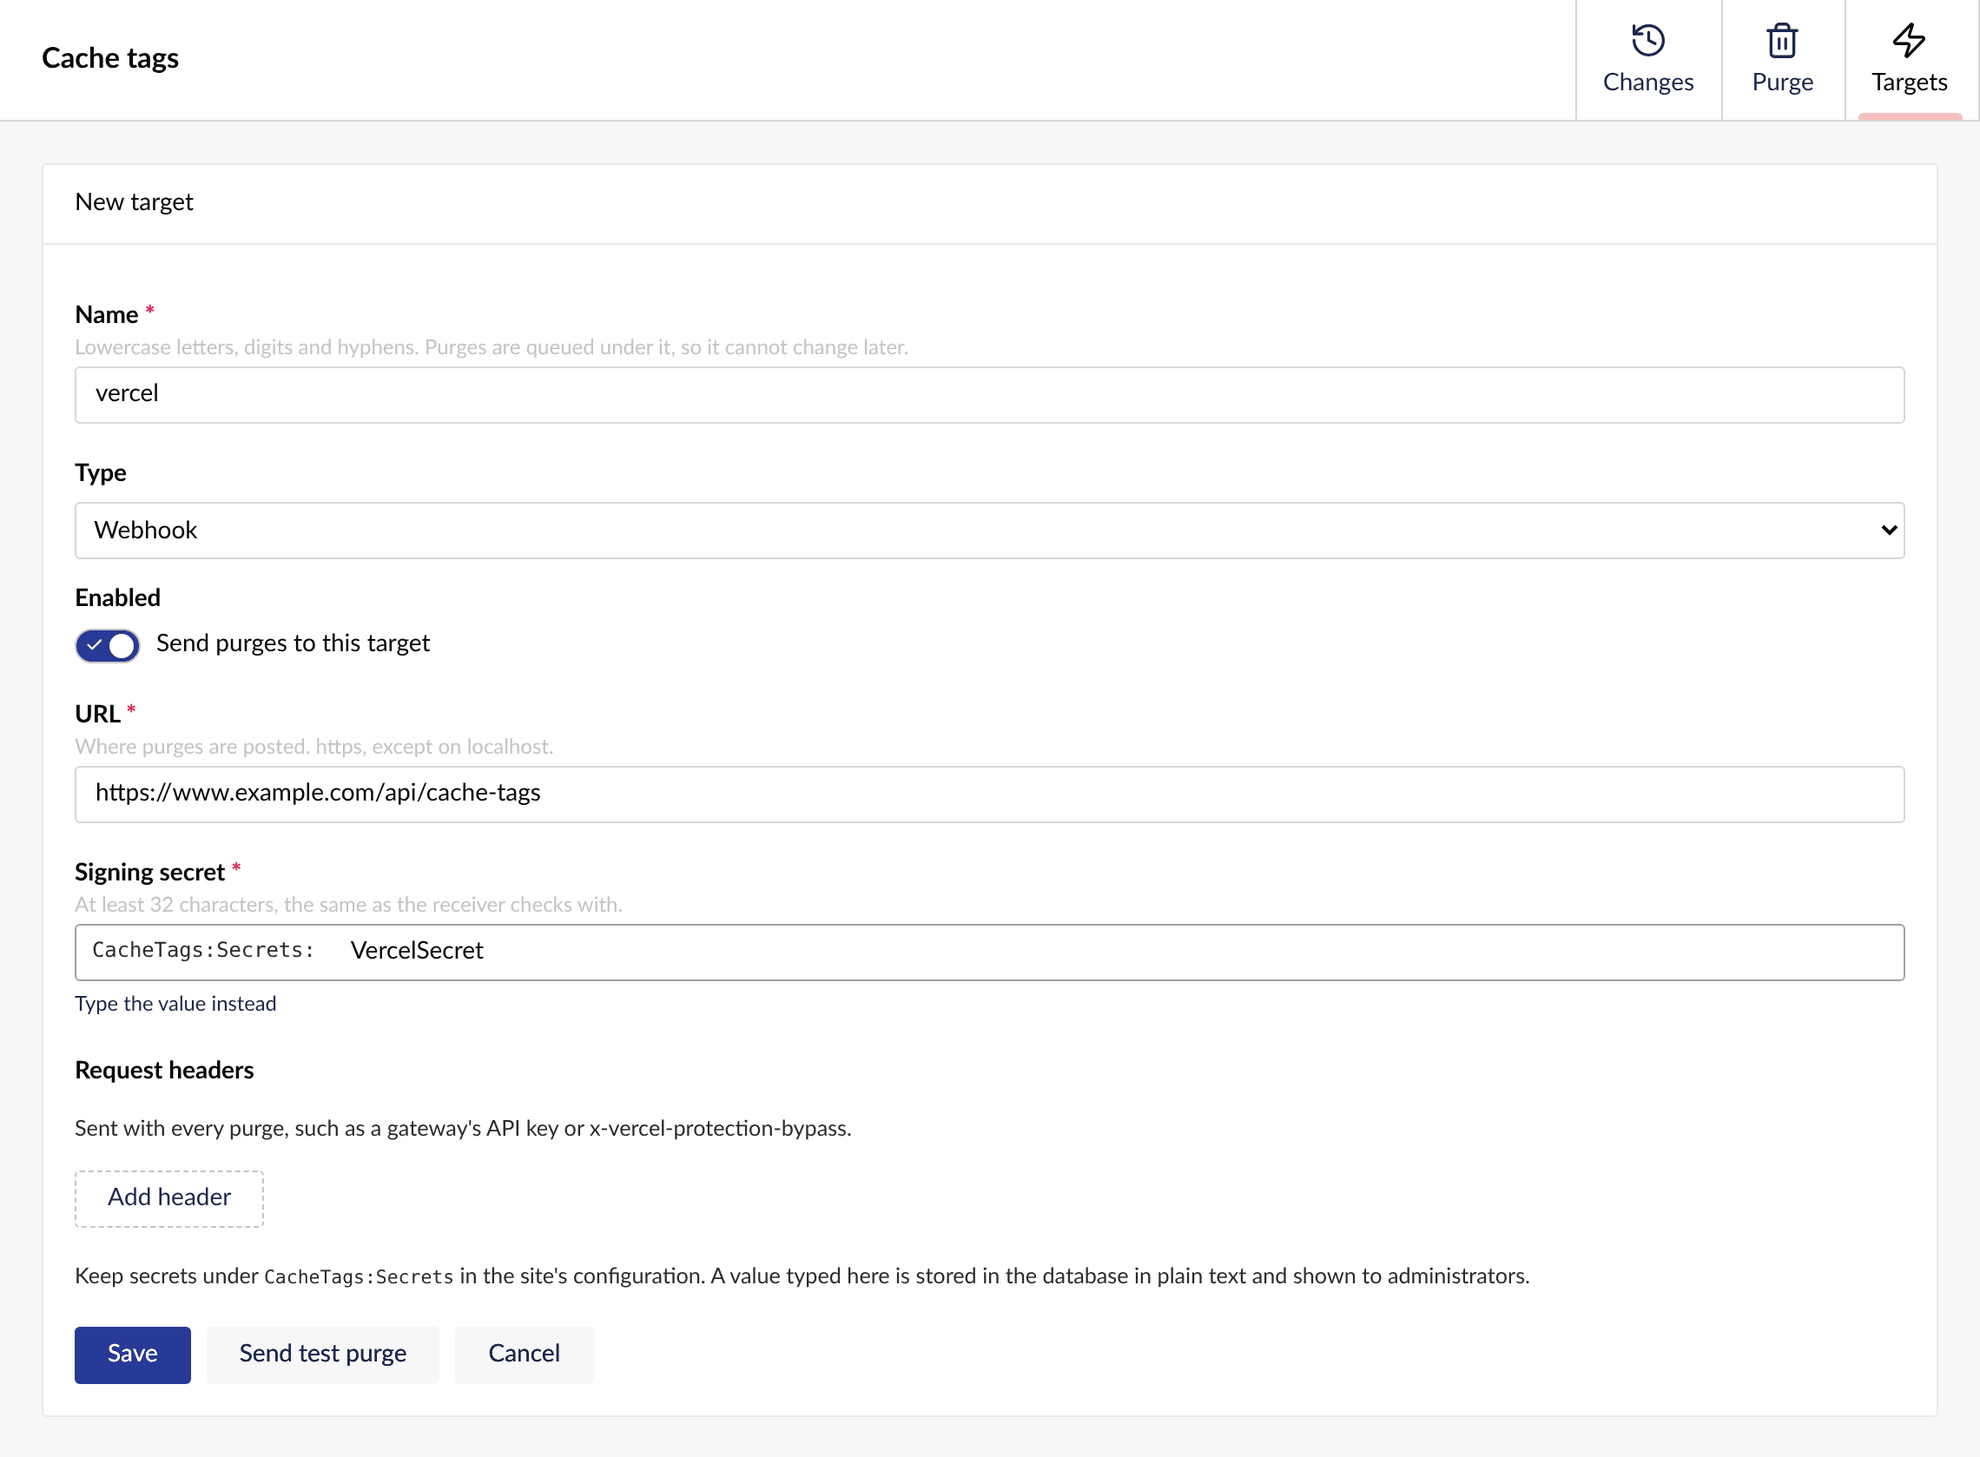
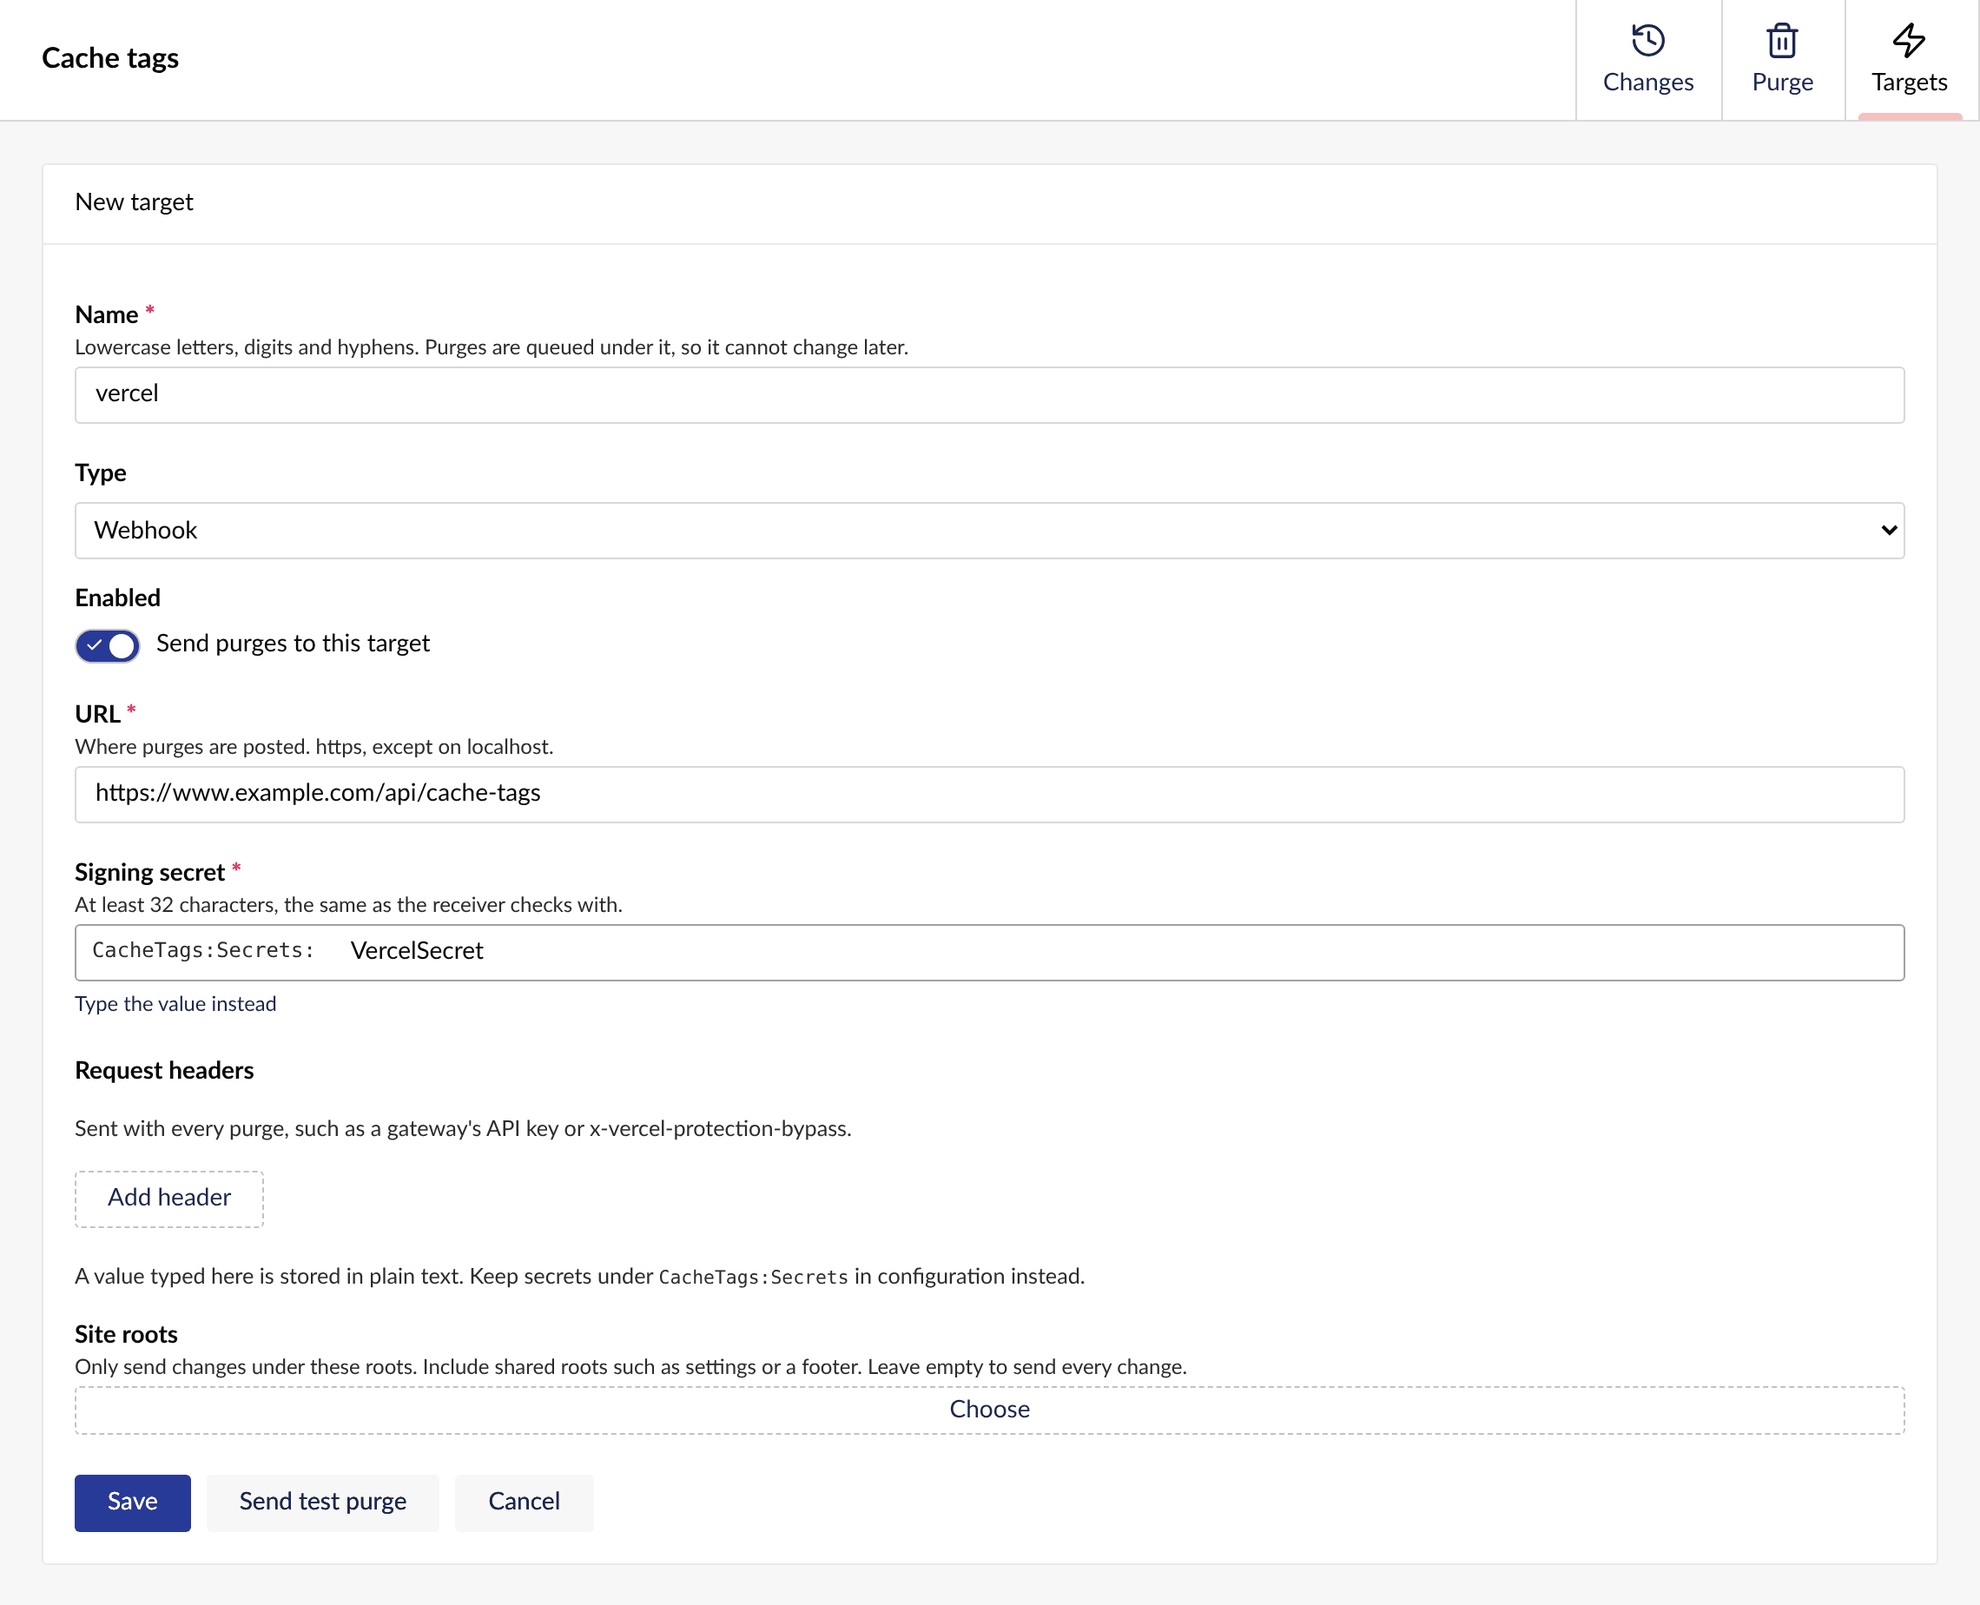
Shorten the backoffice copy (#36)
* Shorten the backoffice copy

The Cache box, Changes, Purge and Targets said more than they needed to.
Cut them to one plain sentence each, drop repeated counts and labels
(1 attempt, sent, Indexed by when it matches Applied by), and retake the
docs screenshots.

* Line up Recent changes: chevron, aligned details, Purges as a row

Each change shows a chevron so it reads as openable, the details start
under what changed instead of 20px left of it, Purges is a row like Keys
and Servers rather than a heading, and the purge count sits beside the
status tag.

---------

diff --git a/src/TheBuilder.CacheTags/Client/src/changes-view.element.ts b/src/TheBuilder.CacheTags/Client/src/changes-view.element.ts
@@ -21,6 +21,9 @@ const stageOf = (change: ChangeEntry) =>
 
 const plural = (count: number, word: string) => `${count} ${word}${count === 1 ? "" : "s"}`;
 
+/** Whether two lists name the same servers, so the second adds nothing worth showing. */
+const sameServers = (a: string[], b: string[]) => a.length === b.length && a.every((server) => b.includes(server));
+
 /** Recent changes, what each planned and where its purges are, and the purges that failed. */
 @customElement("thebuilder-cache-tags-changes-view")
 export class CacheTagsChangesViewElement extends UmbElementMixin(LitElement) {
@@ -104,7 +107,7 @@ export class CacheTagsChangesViewElement extends UmbElementMixin(LitElement) {
     this._busy = true;
     try {
       await (action === "retry" ? api.retry(purge.id) : api.discard(purge.id));
-      this.#notification?.peek("positive", { data: { message: action === "retry" ? "The purge is sent again." : "The purge is set aside." } });
+      this.#notification?.peek("positive", { data: { message: action === "retry" ? "Sent again." : "Set aside." } });
       await this.#load();
     } catch (error) {
       this.#notification?.peek("danger", { data: { message: errorMessage(error, "Could not change the purge.") } });
@@ -119,7 +122,7 @@ export class CacheTagsChangesViewElement extends UmbElementMixin(LitElement) {
         ${this._failed.length > 0
           ? html`
               <uui-box headline="Failed purges">
-                <p>These were given up after their last attempt. Send them again once the target answers, or set them aside.</p>
+                <p>These ran out of attempts. Send them again once the target is back, or set them aside.</p>
                 ${this._failed.map((purge) => this.#renderPurge(purge))}
               </uui-box>
             `
@@ -131,7 +134,7 @@ export class CacheTagsChangesViewElement extends UmbElementMixin(LitElement) {
           ${!this._loading && this._changes.length === 0 && !this._error ? html`<p class="muted">No changes recorded yet.</p>` : nothing}
           ${repeat(this._changes, (change) => change.id, (change) => this.#renderChange(change))}
         </uui-box>
-        <p class="muted">How a change becomes a purge: <a href=${DOCS} target="_blank" rel="noopener">the documentation</a>.</p>
+        <p class="muted"><a href=${DOCS} target="_blank" rel="noopener">How a change becomes a purge</a></p>
       </div>
     `;
   }
@@ -146,34 +149,39 @@ export class CacheTagsChangesViewElement extends UmbElementMixin(LitElement) {
       <details
         class="change"
         ?open=${this.#open.has(change.id)}
-        @toggle=${(event: Event) =>
-          (event.target as HTMLDetailsElement).open ? this.#open.add(change.id) : this.#open.delete(change.id)}>
+        @toggle=${(event: Event) => {
+          (event.target as HTMLDetailsElement).open ? this.#open.add(change.id) : this.#open.delete(change.id);
+          this.requestUpdate();
+        }}>
         <summary>
+          <uui-symbol-expand ?open=${this.#open.has(change.id)}></uui-symbol-expand>
           <span class="when muted">${time(change.createdUtc)}</span>
           <span class="what"><strong>${change.kind}</strong> <span class="muted">${what}</span></span>
           <span class="tags">
             <uui-tag look="secondary" color=${stage.color} title=${stage.hint}>${stage.label}</uui-tag>
             ${change.notAcknowledgedBy.length > 0 ? html`<uui-tag look="secondary" color="danger" title="Some servers had not applied it when it was purged">Ack timeout</uui-tag>` : nothing}
             ${failed ? html`<uui-tag look="secondary" color="danger">Purge failed</uui-tag>` : nothing}
+            <span class="muted purges">${change.purges.length === 0 ? "No purges" : sent === change.purges.length ? plural(sent, "purge") : `${sent} of ${change.purges.length} sent`}</span>
           </span>
-          <span class="muted purges">${change.purges.length === 0 ? "no purges" : `${sent} of ${plural(change.purges.length, "purge")} sent`}</span>
         </summary>
         <div class="details">
           <dl>
-            <dt>Planned</dt>
+            <dt>Keys</dt>
             <dd>${planned.map((key) => html`<span class="param">${key}</span>`)}</dd>
             ${change.change.cultures ? html`<dt>Cultures</dt><dd>${change.change.cultures.join(", ")}</dd>` : nothing}
-            <dt>Applied by</dt>
+            <dt>Servers</dt>
             <dd>
               ${change.waitsForServers
                 ? change.acknowledgedBy.join(", ") || html`<span class="muted">no server yet</span>`
-                : html`<span class="muted">purged without waiting for servers</span>`}
+                : html`<span class="muted">Purged right away</span>`}
             </dd>
             ${change.notAcknowledgedBy.length > 0 ? html`<dt>Purged without</dt><dd class="error">${change.notAcknowledgedBy.join(", ")}</dd>` : nothing}
-            ${change.indexedBy.length > 0 ? html`<dt>Indexed by</dt><dd>${change.indexedBy.join(", ")}</dd>` : nothing}
+            ${change.indexedBy.length > 0 && !sameServers(change.indexedBy, change.acknowledgedBy)
+              ? html`<dt>Indexed by</dt><dd>${change.indexedBy.join(", ")}</dd>`
+              : nothing}
             ${change.change.waitFor ? html`<dt>Waits for</dt><dd><span class="param">${change.change.waitFor}</span></dd>` : nothing}
+            ${change.purges.length > 0 ? html`<dt>Purges</dt><dd class="purge-list">${change.purges.map((purge) => this.#renderPurge(purge))}</dd>` : nothing}
           </dl>
-          ${change.purges.length > 0 ? html`<h4>Purges</h4>${change.purges.map((purge) => this.#renderPurge(purge))}` : nothing}
         </div>
       </details>
     `;
@@ -184,7 +192,7 @@ export class CacheTagsChangesViewElement extends UmbElementMixin(LitElement) {
     return html`
       <div class="purge">
         <uui-tag look="secondary" color=${color}>${purge.state}</uui-tag>
-        <span><strong>${purge.target}</strong> <span class="muted">${plural(purge.keys.length, "key")}, ${plural(purge.attempts, "attempt")}${purge.sentUtc ? `, sent ${time(purge.sentUtc)}` : ""}</span></span>
+        <span><strong>${purge.target}</strong> <span class="muted">${plural(purge.keys.length, "key")}${purge.attempts > 1 ? `, ${purge.attempts} attempts` : ""}${purge.sentUtc ? `, ${time(purge.sentUtc)}` : ""}</span></span>
         ${purge.lastError ? html`<span class="error">${purge.lastError}</span>` : nothing}
         <span class="actions">
           ${purge.state === "Dead" || purge.state === "Discarded"
@@ -203,6 +211,10 @@ export class CacheTagsChangesViewElement extends UmbElementMixin(LitElement) {
     sharedStyles,
     css`
       .change {
+        /* The summary's columns, so the details line up under what changed. */
+        --chevron: 0.75rem;
+        --when: 11rem;
+        --gap: var(--uui-size-space-4);
         border-top: 1px solid var(--uui-color-border);
       }
       .change:first-of-type {
@@ -210,34 +222,47 @@ export class CacheTagsChangesViewElement extends UmbElementMixin(LitElement) {
       }
       summary {
         display: grid;
-        grid-template-columns: 11rem 1fr auto 9rem;
-        gap: var(--uui-size-space-4);
+        grid-template-columns: var(--chevron) var(--when) 1fr auto;
+        gap: var(--gap);
         align-items: center;
         padding: var(--uui-size-space-3) 0;
         cursor: pointer;
+        list-style: none;
+      }
+      summary::-webkit-details-marker {
+        display: none;
+      }
+      uui-symbol-expand {
+        width: var(--chevron);
+        color: var(--uui-color-text-alt);
       }
       .when,
       .purges {
         font-variant-numeric: tabular-nums;
       }
-      .purges {
-        text-align: right;
-      }
       .tags {
         display: flex;
-        gap: var(--uui-size-space-2);
+        gap: var(--uui-size-space-3);
+        align-items: center;
+        justify-content: flex-end;
       }
       .details {
-        padding: 0 0 var(--uui-size-space-4) 11rem;
+        padding: 0 0 var(--uui-size-space-4) calc(var(--chevron) + var(--when) + 2 * var(--gap));
       }
-      h4 {
-        margin: var(--uui-size-space-4) 0 var(--uui-size-space-2);
+      .details dl {
+        align-items: baseline;
+      }
+      .purge-list {
+        display: grid;
+        gap: var(--uui-size-space-2);
       }
       .purge {
         display: flex;
         gap: var(--uui-size-space-3);
         align-items: center;
         flex-wrap: wrap;
+      }
+      uui-box > .purge {
         padding: var(--uui-size-space-2) 0;
       }
       .actions {

diff --git a/src/TheBuilder.CacheTags/Client/src/targets-view.element.ts b/src/TheBuilder.CacheTags/Client/src/targets-view.element.ts
@@ -217,7 +217,7 @@ export class CacheTagsTargetsViewElement extends UmbElementMixin(LitElement) {
         ${this._error ? html`<p class="error">${this._error}</p>` : nothing}
         ${this._loading && this._targets.length === 0 ? html`<uui-loader></uui-loader>` : nothing}
         ${!this._loading && this._targets.length === 0 && !this._error
-          ? html`<p>No targets yet, so changes are recorded but nothing is purged. Add one to start purging.</p>`
+          ? html`<p>No targets yet, so nothing is purged.</p>`
           : nothing}
         ${this._targets.length > 0
           ? html`
@@ -325,8 +325,7 @@ export class CacheTagsTargetsViewElement extends UmbElementMixin(LitElement) {
       <uui-box headline=${target.name}>
         <fieldset ?disabled=${this._busy}>
           <p class="muted">
-            This target is set in <span class="mono">appsettings.json</span>. Its roots are kept in the database, so every server uses
-            them.
+            Set in <span class="mono">appsettings.json</span>. Roots picked here are saved in the database.
           </p>
           ${this.#renderRoots(this._roots, (roots) => {
             this._roots = roots;
@@ -347,9 +346,7 @@ export class CacheTagsTargetsViewElement extends UmbElementMixin(LitElement) {
       <uui-form-layout-item>
         <uui-label slot="label" for="roots">Site roots</uui-label>
         <span slot="description">
-          For an Umbraco instance with several sites: every top-level page whose content this frontend shows, including shared
-          ones such as settings or a footer. Changes under roots not picked here never reach this frontend. Leave empty to send every
-          change.
+          Only send changes under these roots. Include shared roots such as settings or a footer. Leave empty to send every change.
         </span>
         <umb-input-document
           id="roots"
@@ -383,7 +380,7 @@ export class CacheTagsTargetsViewElement extends UmbElementMixin(LitElement) {
       </uui-form-layout-item>
       ${this.#renderNamedValues("Request headers", "Sent with every purge, such as a gateway's API key or x-vercel-protection-bypass.", draft.headers, (headers) => this.#patch({ headers }), "x-vercel-protection-bypass", "Add header")}
       <p class="muted small">
-        Keep secrets under <span class="mono">${SECRETS}</span> in the site's configuration. A value typed here is stored in the database in plain text and shown to administrators.
+        A value typed here is stored in plain text. Keep secrets under <span class="mono">${SECRETS}</span> in configuration instead.
       </p>
     `;
   }
@@ -404,7 +401,7 @@ export class CacheTagsTargetsViewElement extends UmbElementMixin(LitElement) {
         ${this.#renderValue("token", "API token", setting("ApiToken"), (value) => update("ApiToken", value), "CloudflareToken")}
       </uui-form-layout-item>
       <p class="muted small">
-        Keep the token under <span class="mono">${SECRETS}</span> in the site's configuration. A value typed here is stored in the database in plain text and shown to administrators.
+        A token typed here is stored in plain text. Keep it under <span class="mono">${SECRETS}</span> in configuration instead.
       </p>
     `;
   }

diff --git a/src/TheBuilder.CacheTags/Client/src/cache-info-app.element.ts b/src/TheBuilder.CacheTags/Client/src/cache-info-app.element.ts
@@ -61,7 +61,7 @@ export class CacheTagsInfoAppElement extends UmbElementMixin(LitElement) {
     try {
       await api.purge([key]);
       this.#notification?.peek("positive", {
-        data: { message: "Purge sent to every target. Cached responses that show this item render fresh on their next request." },
+        data: { message: "Purged. Pages that show this item render fresh on their next request." },
       });
     } catch (error) {
       this.#notification?.peek("danger", { data: { message: errorMessage(error, "Could not purge.") } });
@@ -78,15 +78,14 @@ export class CacheTagsInfoAppElement extends UmbElementMixin(LitElement) {
     }
     return html`
       <uui-box headline="Cache">
-        <p class="muted">Every cached response that shows this item carries its key. Publishing or purging the item purges them.</p>
+        <p class="muted">Publishing or purging this item refreshes every cached page that shows it.</p>
         <div class="row">
           <span class="mono">${this._key}</span>
-          <uui-button compact look="secondary" label="Purge this item" ?disabled=${this._busy} @click=${() => this.#purge()}></uui-button>
+          <uui-button compact look="secondary" label="Purge" ?disabled=${this._busy} @click=${() => this.#purge()}></uui-button>
         </div>
         ${this._sets
-          ? html`<p class="muted">
-              Also in ${this._sets === 1 ? "1 stored set" : `${this._sets} stored sets`}, which pages showing too many items to list carry
-              instead. Purging the item purges them too.
+          ? html`<p class="muted" title="Pages with too many items to list carry one set- key for them.">
+              Also purges ${this._sets === 1 ? "1 key set" : `${this._sets} key sets`}.
             </p>`
           : nothing}
       </uui-box>

diff --git a/src/TheBuilder.CacheTags/Client/src/purge-view.element.ts b/src/TheBuilder.CacheTags/Client/src/purge-view.element.ts
@@ -60,9 +60,8 @@ export class CacheTagsPurgeViewElement extends UmbElementMixin(LitElement) {
       <div class="stack">
         <uui-box headline="Purge keys">
           <p>
-            Purges at every target at once, without waiting for servers. Use your own <span class="mono">x-</span> keys, the
-            <span class="mono">content-</span> and <span class="mono">media-</span> keys of items, or a
-            <span class="mono">set-</span> key from a response's header. One per line.
+            One key per line: your own <span class="mono">x-</span> keys, or <span class="mono">content-</span>,
+            <span class="mono">media-</span> and <span class="mono">set-</span> keys. Sent to every target right away.
           </p>
           <uui-textarea
             label="Keys to purge"
@@ -76,7 +75,7 @@ export class CacheTagsPurgeViewElement extends UmbElementMixin(LitElement) {
           </div>
         </uui-box>
         <uui-box headline="Purge everything">
-          <p>For when something changed that no key covers. Every cached response is fetched again, so expect more load on Umbraco for a while.</p>
+          <p>Every cached page renders fresh, so expect extra load on Umbraco for a while.</p>
           <uui-button look="primary" color="danger" label="Purge everything" ?disabled=${this._busy} @click=${() => this.#purgeEverything()}></uui-button>
         </uui-box>
       </div>
